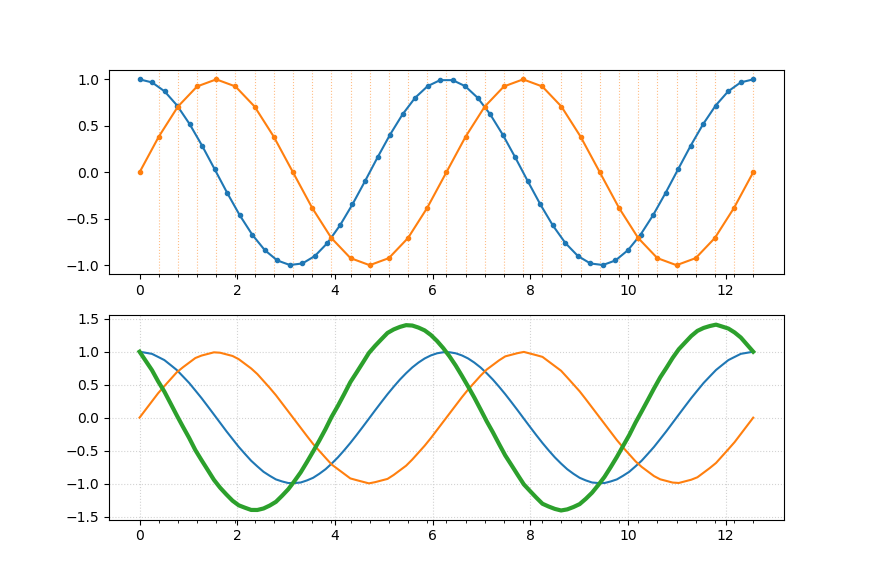
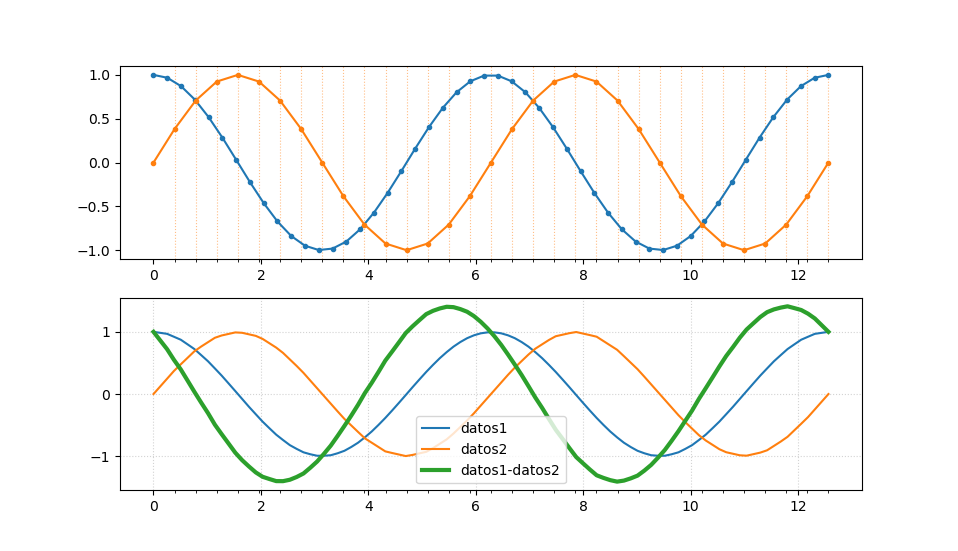
.

diff --git a/tuto/labo2/04_herramientas.md b/tuto/labo2/04_herramientas.md
@@ -428,7 +428,7 @@ plt.plot( tiempo_general , datos1_general-datos2_general , '-' , label='datos1-d
 plt.gca().set_xticks( tiempo2 ,minor=True)
 plt.grid(b=True,linestyle=':', color='lightgray')
 
-ax.legend()
+plt.legend()
 # plt.savefig('03_07_interp.png')
 
 ```
